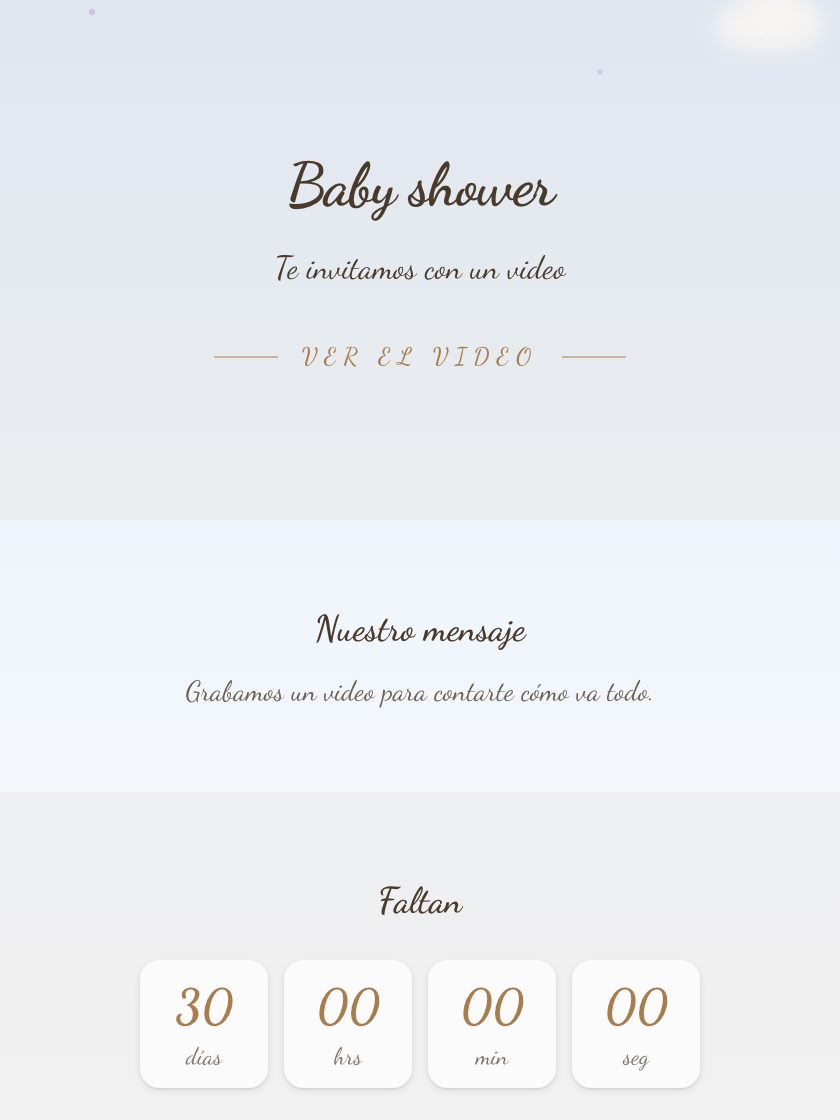
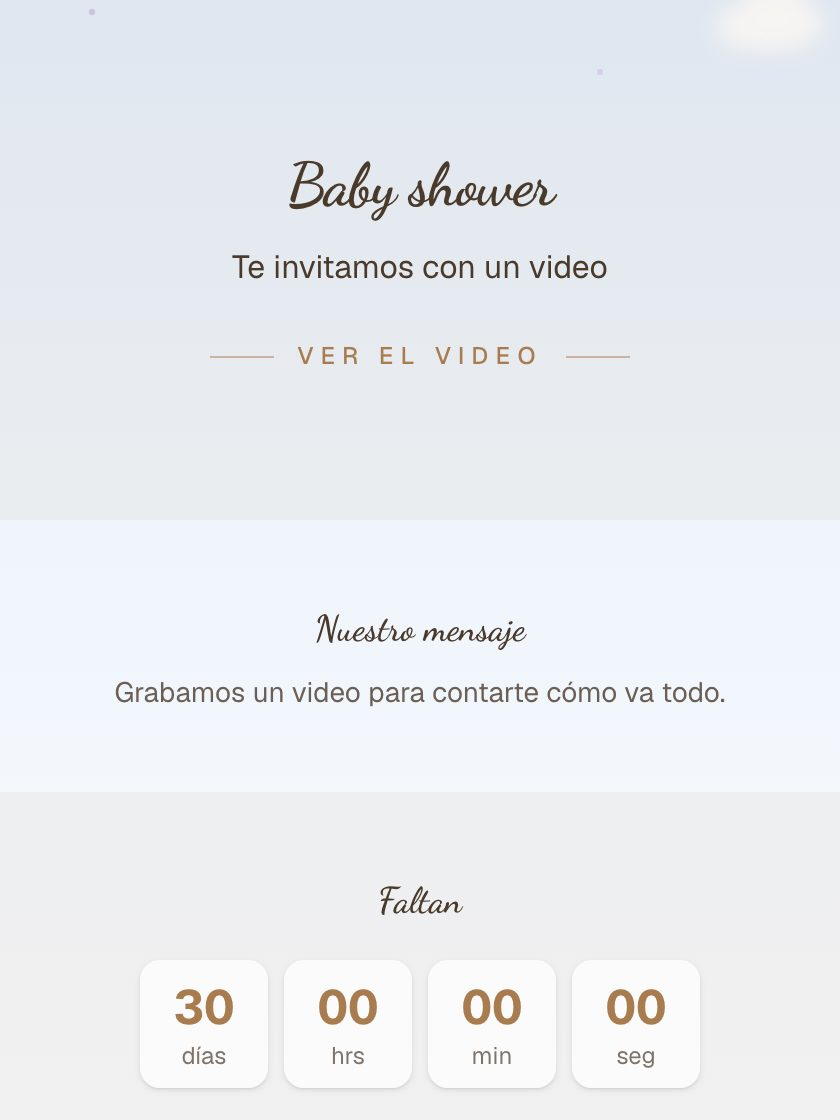
chore(miniaturas): recapturadas las de G2 tras el par tipografico — 20 de 30 se movieron
El cambio del par vive en CODIGO, asi que el render de las 30 plantillas que
heredan del pack ya era otro sin que hubiera migracion: sus miniaturas quedaban
mintiendo. Recapturadas las 30 con el reloj congelado.

Se movieron 20. Las otras 10 salieron BYTE A BYTE IDENTICAS, y eso esta medido y
explicado, no asumido: las 10 usan un pack cuyo par es `sans/sans`, o sea
identico al `font` que ya tenian, asi que no habia nada que mover.

  corporativo-limpio   -> corporativo-completo, -conferencia-agenda,
                          -congreso-video, -taller
  minimalista-moderno  -> corporativo-lanzamiento, cumpleanos-con-video
  dinos/futbol/galaxia/superheroe -> sus cuatro de cumpleanos

Es un control positivo del lote entero: las 20 que cambiaron son exactamente las
20 con par distinto y las 10 que no cambiaron son exactamente las 10 con par
identico. Cero anomalias.

Verificado MIRANDO el antes y el despues, no por el hash:
  · `boda-de-lujo` (elegant -> elegant/sans): los titulares siguen en Playfair
    y el cuerpo, el CTA y los numeros de la cuenta atras pasan a sans.
  · `xv-glam-moderno` (script -> script/sans): antes el parrafo entero iba en
    cursiva manuscrita y era casi ilegible; ahora el titular conserva la
    cursiva y el cuerpo se lee. Es exactamente para lo que existe la regla dura
    de que `body` nunca sea `script`.

--- De donde salieron estas imagenes, con precision ---

La primera tanda se capturo contra el servidor del PUERTO 3000, y ese servidor
[…]

diff --git a/src/lib/invitations/template-preview.ts b/src/lib/invitations/template-preview.ts
@@ -67,4 +67,4 @@ export const ESCALA_CAPTURA = 2;
  * optimizador y la del navegador, y evita tener que renombrar 50 archivos o
  * volver a escribir 50 URLs en la BD en cada regeneración.
  */
-export const REVISION_MINIATURAS = "202609082215";
+export const REVISION_MINIATURAS = "202609090216";
